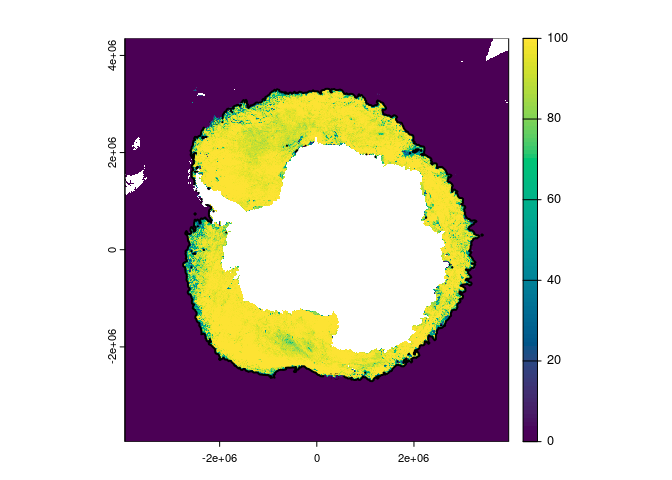
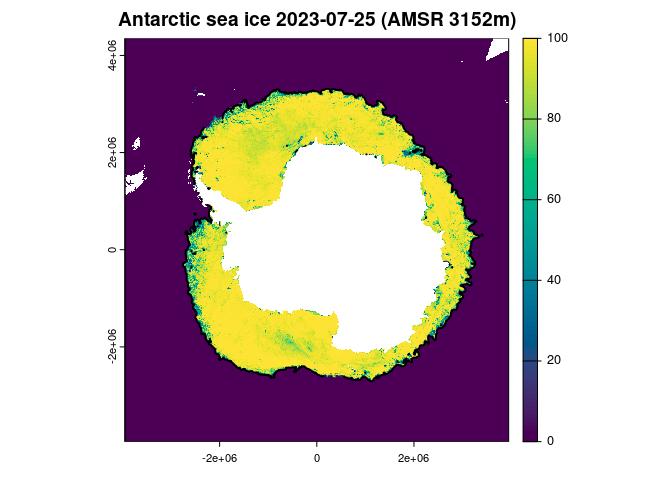
refreshing data

Changed region(s): [[0.1562, 0.0, 0.7812, 0.0625]]

diff --git a/README.md b/README.md
@@ -13,120 +13,10 @@ The goal of raadle.humm is to …
 This is a basic example which shows you how to solve a common problem:
 
 ``` r
-datadir <- normalizePath(file.path("~", "bower_dir"), mustWork = FALSE) #"/bower"
+## this was set in the data-raw/run.R job
+datadir <- normalizePath(file.path("~", "bower_dir"), mustWork = FALSE) 
 print(datadir)
 #> [1] "/home/runner/bower_dir"
-print(here::here("data-raw"))
-#> [1] "/home/runner/work/raadle.humm/raadle.humm/data-raw"
-fs::dir_ls(datadir, recurse = TRUE)
-#> /home/runner/bower_dir/seaice.uni-bremen.de
-#> /home/runner/bower_dir/seaice.uni-bremen.de/data
-#> /home/runner/bower_dir/seaice.uni-bremen.de/data/amsr2
-#> /home/runner/bower_dir/seaice.uni-bremen.de/data/amsr2/asi_daygrid_swath
-#> /home/runner/bower_dir/seaice.uni-bremen.de/data/amsr2/asi_daygrid_swath/s3125
-#> /home/runner/bower_dir/seaice.uni-bremen.de/data/amsr2/asi_daygrid_swath/s3125/2023
-#> /home/runner/bower_dir/seaice.uni-bremen.de/data/amsr2/asi_daygrid_swath/s3125/2023/jul
-#> /home/runner/bower_dir/seaice.uni-bremen.de/data/amsr2/asi_daygrid_swath/s3125/2023/jul/Antarctic3125
-#> /home/runner/bower_dir/seaice.uni-bremen.de/data/amsr2/asi_daygrid_swath/s3125/2023/jul/Antarctic3125/asi-AMSR2-s3125-20230701-v5.4.hdf
-#> /home/runner/bower_dir/seaice.uni-bremen.de/data/amsr2/asi_daygrid_swath/s3125/2023/jul/Antarctic3125/asi-AMSR2-s3125-20230701-v5.4.tif
-#> /home/runner/bower_dir/seaice.uni-bremen.de/data/amsr2/asi_daygrid_swath/s3125/2023/jul/Antarctic3125/asi-AMSR2-s3125-20230701-v5.hdf
-#> /home/runner/bower_dir/seaice.uni-bremen.de/data/amsr2/asi_daygrid_swath/s3125/2023/jul/Antarctic3125/asi-AMSR2-s3125-20230701-v5.tif
-#> /home/runner/bower_dir/seaice.uni-bremen.de/data/amsr2/asi_daygrid_swath/s3125/2023/jul/Antarctic3125/asi-AMSR2-s3125-20230702-v5.4.hdf
-#> /home/runner/bower_dir/seaice.uni-bremen.de/data/amsr2/asi_daygrid_swath/s3125/2023/jul/Antarctic3125/asi-AMSR2-s3125-20230702-v5.4.tif
-#> /home/runner/bower_dir/seaice.uni-bremen.de/data/amsr2/asi_daygrid_swath/s3125/2023/jul/Antarctic3125/asi-AMSR2-s3125-20230702-v5.hdf
-#> /home/runner/bower_dir/seaice.uni-bremen.de/data/amsr2/asi_daygrid_swath/s3125/2023/jul/Antarctic3125/asi-AMSR2-s3125-20230702-v5.tif
-#> /home/runner/bower_dir/seaice.uni-bremen.de/data/amsr2/asi_daygrid_swath/s3125/2023/jul/Antarctic3125/asi-AMSR2-s3125-20230703-v5.4.hdf
-#> /home/runner/bower_dir/seaice.uni-bremen.de/data/amsr2/asi_daygrid_swath/s3125/2023/jul/Antarctic3125/asi-AMSR2-s3125-20230703-v5.4.tif
-#> /home/runner/bower_dir/seaice.uni-bremen.de/data/amsr2/asi_daygrid_swath/s3125/2023/jul/Antarctic3125/asi-AMSR2-s3125-20230703-v5.hdf
-#> /home/runner/bower_dir/seaice.uni-bremen.de/data/amsr2/asi_daygrid_swath/s3125/2023/jul/Antarctic3125/asi-AMSR2-s3125-20230703-v5.tif
-#> /home/runner/bower_dir/seaice.uni-bremen.de/data/amsr2/asi_daygrid_swath/s3125/2023/jul/Antarctic3125/asi-AMSR2-s3125-20230704-v5.4.hdf
-#> /home/runner/bower_dir/seaice.uni-bremen.de/data/amsr2/asi_daygrid_swath/s3125/2023/jul/Antarctic3125/asi-AMSR2-s3125-20230704-v5.4.tif
-#> /home/runner/bower_dir/seaice.uni-bremen.de/data/amsr2/asi_daygrid_swath/s3125/2023/jul/Antarctic3125/asi-AMSR2-s3125-20230704-v5.hdf
-#> /home/runner/bower_dir/seaice.uni-bremen.de/data/amsr2/asi_daygrid_swath/s3125/2023/jul/Antarctic3125/asi-AMSR2-s3125-20230704-v5.tif
-#> /home/runner/bower_dir/seaice.uni-bremen.de/data/amsr2/asi_daygrid_swath/s3125/2023/jul/Antarctic3125/asi-AMSR2-s3125-20230705-v5.4.hdf
-#> /home/runner/bower_dir/seaice.uni-bremen.de/data/amsr2/asi_daygrid_swath/s3125/2023/jul/Antarctic3125/asi-AMSR2-s3125-20230705-v5.4.tif
-#> /home/runner/bower_dir/seaice.uni-bremen.de/data/amsr2/asi_daygrid_swath/s3125/2023/jul/Antarctic3125/asi-AMSR2-s3125-20230705-v5.hdf
-#> /home/runner/bower_dir/seaice.uni-bremen.de/data/amsr2/asi_daygrid_swath/s3125/2023/jul/Antarctic3125/asi-AMSR2-s3125-20230705-v5.tif
-#> /home/runner/bower_dir/seaice.uni-bremen.de/data/amsr2/asi_daygrid_swath/s3125/2023/jul/Antarctic3125/asi-AMSR2-s3125-20230706-v5.4.hdf
-#> /home/runner/bower_dir/seaice.uni-bremen.de/data/amsr2/asi_daygrid_swath/s3125/2023/jul/Antarctic3125/asi-AMSR2-s3125-20230706-v5.4.tif
-#> /home/runner/bower_dir/seaice.uni-bremen.de/data/amsr2/asi_daygrid_swath/s3125/2023/jul/Antarctic3125/asi-AMSR2-s3125-20230706-v5.hdf
-#> /home/runner/bower_dir/seaice.uni-bremen.de/data/amsr2/asi_daygrid_swath/s3125/2023/jul/Antarctic3125/asi-AMSR2-s3125-20230706-v5.tif
-#> /home/runner/bower_dir/seaice.uni-bremen.de/data/amsr2/asi_daygrid_swath/s3125/2023/jul/Antarctic3125/asi-AMSR2-s3125-20230707-v5.4.hdf
-#> /home/runner/bower_dir/seaice.uni-bremen.de/data/amsr2/asi_daygrid_swath/s3125/2023/jul/Antarctic3125/asi-AMSR2-s3125-20230707-v5.4.tif
-#> /home/runner/bower_dir/seaice.uni-bremen.de/data/amsr2/asi_daygrid_swath/s3125/2023/jul/Antarctic3125/asi-AMSR2-s3125-20230707-v5.hdf
-#> /home/runner/bower_dir/seaice.uni-bremen.de/data/amsr2/asi_daygrid_swath/s3125/2023/jul/Antarctic3125/asi-AMSR2-s3125-20230707-v5.tif
-#> /home/runner/bower_dir/seaice.uni-bremen.de/data/amsr2/asi_daygrid_swath/s3125/2023/jul/Antarctic3125/asi-AMSR2-s3125-20230708-v5.4.hdf
-#> /home/runner/bower_dir/seaice.uni-bremen.de/data/amsr2/asi_daygrid_swath/s3125/2023/jul/Antarctic3125/asi-AMSR2-s3125-20230708-v5.4.tif
-#> /home/runner/bower_dir/seaice.uni-bremen.de/data/amsr2/asi_daygrid_swath/s3125/2023/jul/Antarctic3125/asi-AMSR2-s3125-20230708-v5.hdf
-#> /home/runner/bower_dir/seaice.uni-bremen.de/data/amsr2/asi_daygrid_swath/s3125/2023/jul/Antarctic3125/asi-AMSR2-s3125-20230708-v5.tif
-#> /home/runner/bower_dir/seaice.uni-bremen.de/data/amsr2/asi_daygrid_swath/s3125/2023/jul/Antarctic3125/asi-AMSR2-s3125-20230709-v5.4.hdf
-#> /home/runner/bower_dir/seaice.uni-bremen.de/data/amsr2/asi_daygrid_swath/s3125/2023/jul/Antarctic3125/asi-AMSR2-s3125-20230709-v5.4.tif
-#> /home/runner/bower_dir/seaice.uni-bremen.de/data/amsr2/asi_daygrid_swath/s3125/2023/jul/Antarctic3125/asi-AMSR2-s3125-20230709-v5.hdf
-#> /home/runner/bower_dir/seaice.uni-bremen.de/data/amsr2/asi_daygrid_swath/s3125/2023/jul/Antarctic3125/asi-AMSR2-s3125-20230709-v5.tif
-#> /home/runner/bower_dir/seaice.uni-bremen.de/data/amsr2/asi_daygrid_swath/s3125/2023/jul/Antarctic3125/asi-AMSR2-s3125-20230710-v5.4.hdf
-#> /home/runner/bower_dir/seaice.uni-bremen.de/data/amsr2/asi_daygrid_swath/s3125/2023/jul/Antarctic3125/asi-AMSR2-s3125-20230710-v5.4.tif
-#> /home/runner/bower_dir/seaice.uni-bremen.de/data/amsr2/asi_daygrid_swath/s3125/2023/jul/Antarctic3125/asi-AMSR2-s3125-20230710-v5.hdf
-#> /home/runner/bower_dir/seaice.uni-bremen.de/data/amsr2/asi_daygrid_swath/s3125/2023/jul/Antarctic3125/asi-AMSR2-s3125-20230710-v5.tif
-#> /home/runner/bower_dir/seaice.uni-bremen.de/data/amsr2/asi_daygrid_swath/s3125/2023/jul/Antarctic3125/asi-AMSR2-s3125-20230711-v5.4.hdf
-#> /home/runner/bower_dir/seaice.uni-bremen.de/data/amsr2/asi_daygrid_swath/s3125/2023/jul/Antarctic3125/asi-AMSR2-s3125-20230711-v5.4.tif
-#> /home/runner/bower_dir/seaice.uni-bremen.de/data/amsr2/asi_daygrid_swath/s3125/2023/jul/Antarctic3125/asi-AMSR2-s3125-20230711-v5.hdf
-#> /home/runner/bower_dir/seaice.uni-bremen.de/data/amsr2/asi_daygrid_swath/s3125/2023/jul/Antarctic3125/asi-AMSR2-s3125-20230711-v5.tif
-#> /home/runner/bower_dir/seaice.uni-bremen.de/data/amsr2/asi_daygrid_swath/s3125/2023/jul/Antarctic3125/asi-AMSR2-s3125-20230712-v5.4.hdf
-#> /home/runner/bower_dir/seaice.uni-bremen.de/data/amsr2/asi_daygrid_swath/s3125/2023/jul/Antarctic3125/asi-AMSR2-s3125-20230712-v5.4.tif
-#> /home/runner/bower_dir/seaice.uni-bremen.de/data/amsr2/asi_daygrid_swath/s3125/2023/jul/Antarctic3125/asi-AMSR2-s3125-20230712-v5.hdf
-#> /home/runner/bower_dir/seaice.uni-bremen.de/data/amsr2/asi_daygrid_swath/s3125/2023/jul/Antarctic3125/asi-AMSR2-s3125-20230712-v5.tif
-#> /home/runner/bower_dir/seaice.uni-bremen.de/data/amsr2/asi_daygrid_swath/s3125/2023/jul/Antarctic3125/asi-AMSR2-s3125-20230713-v5.4.hdf
-#> /home/runner/bower_dir/seaice.uni-bremen.de/data/amsr2/asi_daygrid_swath/s3125/2023/jul/Antarctic3125/asi-AMSR2-s3125-20230713-v5.4.tif
-#> /home/runner/bower_dir/seaice.uni-bremen.de/data/amsr2/asi_daygrid_swath/s3125/2023/jul/Antarctic3125/asi-AMSR2-s3125-20230713-v5.hdf
-#> /home/runner/bower_dir/seaice.uni-bremen.de/data/amsr2/asi_daygrid_swath/s3125/2023/jul/Antarctic3125/asi-AMSR2-s3125-20230713-v5.tif
-#> /home/runner/bower_dir/seaice.uni-bremen.de/data/amsr2/asi_daygrid_swath/s3125/2023/jul/Antarctic3125/asi-AMSR2-s3125-20230714-v5.4.hdf
-#> /home/runner/bower_dir/seaice.uni-bremen.de/data/amsr2/asi_daygrid_swath/s3125/2023/jul/Antarctic3125/asi-AMSR2-s3125-20230714-v5.4.tif
-#> /home/runner/bower_dir/seaice.uni-bremen.de/data/amsr2/asi_daygrid_swath/s3125/2023/jul/Antarctic3125/asi-AMSR2-s3125-20230714-v5.hdf
-#> /home/runner/bower_dir/seaice.uni-bremen.de/data/amsr2/asi_daygrid_swath/s3125/2023/jul/Antarctic3125/asi-AMSR2-s3125-20230714-v5.tif
-#> /home/runner/bower_dir/seaice.uni-bremen.de/data/amsr2/asi_daygrid_swath/s3125/2023/jul/Antarctic3125/asi-AMSR2-s3125-20230715-v5.4.hdf
-#> /home/runner/bower_dir/seaice.uni-bremen.de/data/amsr2/asi_daygrid_swath/s3125/2023/jul/Antarctic3125/asi-AMSR2-s3125-20230715-v5.4.tif
-#> /home/runner/bower_dir/seaice.uni-bremen.de/data/amsr2/asi_daygrid_swath/s3125/2023/jul/Antarctic3125/asi-AMSR2-s3125-20230715-v5.hdf
-#> /home/runner/bower_dir/seaice.uni-bremen.de/data/amsr2/asi_daygrid_swath/s3125/2023/jul/Antarctic3125/asi-AMSR2-s3125-20230715-v5.tif
-#> /home/runner/bower_dir/seaice.uni-bremen.de/data/amsr2/asi_daygrid_swath/s3125/2023/jul/Antarctic3125/asi-AMSR2-s3125-20230716-v5.4.hdf
-#> /home/runner/bower_dir/seaice.uni-bremen.de/data/amsr2/asi_daygrid_swath/s3125/2023/jul/Antarctic3125/asi-AMSR2-s3125-20230716-v5.4.tif
-#> /home/runner/bower_dir/seaice.uni-bremen.de/data/amsr2/asi_daygrid_swath/s3125/2023/jul/Antarctic3125/asi-AMSR2-s3125-20230716-v5.hdf
-#> /home/runner/bower_dir/seaice.uni-bremen.de/data/amsr2/asi_daygrid_swath/s3125/2023/jul/Antarctic3125/asi-AMSR2-s3125-20230716-v5.tif
-#> /home/runner/bower_dir/seaice.uni-bremen.de/data/amsr2/asi_daygrid_swath/s3125/2023/jul/Antarctic3125/asi-AMSR2-s3125-20230717-v5.4.hdf
-#> /home/runner/bower_dir/seaice.uni-bremen.de/data/amsr2/asi_daygrid_swath/s3125/2023/jul/Antarctic3125/asi-AMSR2-s3125-20230717-v5.4.tif
-#> /home/runner/bower_dir/seaice.uni-bremen.de/data/amsr2/asi_daygrid_swath/s3125/2023/jul/Antarctic3125/asi-AMSR2-s3125-20230717-v5.hdf
-#> /home/runner/bower_dir/seaice.uni-bremen.de/data/amsr2/asi_daygrid_swath/s3125/2023/jul/Antarctic3125/asi-AMSR2-s3125-20230717-v5.tif
-#> /home/runner/bower_dir/seaice.uni-bremen.de/data/amsr2/asi_daygrid_swath/s3125/2023/jul/Antarctic3125/asi-AMSR2-s3125-20230718-v5.4.hdf
-#> /home/runner/bower_dir/seaice.uni-bremen.de/data/amsr2/asi_daygrid_swath/s3125/2023/jul/Antarctic3125/asi-AMSR2-s3125-20230718-v5.4.tif
-#> /home/runner/bower_dir/seaice.uni-bremen.de/data/amsr2/asi_daygrid_swath/s3125/2023/jul/Antarctic3125/asi-AMSR2-s3125-20230718-v5.hdf
-#> /home/runner/bower_dir/seaice.uni-bremen.de/data/amsr2/asi_daygrid_swath/s3125/2023/jul/Antarctic3125/asi-AMSR2-s3125-20230718-v5.tif
-#> /home/runner/bower_dir/seaice.uni-bremen.de/data/amsr2/asi_daygrid_swath/s3125/2023/jul/Antarctic3125/asi-AMSR2-s3125-20230719-v5.4.hdf
-#> /home/runner/bower_dir/seaice.uni-bremen.de/data/amsr2/asi_daygrid_swath/s3125/2023/jul/Antarctic3125/asi-AMSR2-s3125-20230719-v5.4.tif
-#> /home/runner/bower_dir/seaice.uni-bremen.de/data/amsr2/asi_daygrid_swath/s3125/2023/jul/Antarctic3125/asi-AMSR2-s3125-20230719-v5.hdf
-#> /home/runner/bower_dir/seaice.uni-bremen.de/data/amsr2/asi_daygrid_swath/s3125/2023/jul/Antarctic3125/asi-AMSR2-s3125-20230719-v5.tif
-#> /home/runner/bower_dir/seaice.uni-bremen.de/data/amsr2/asi_daygrid_swath/s3125/2023/jul/Antarctic3125/asi-AMSR2-s3125-20230720-v5.4.hdf
-#> /home/runner/bower_dir/seaice.uni-bremen.de/data/amsr2/asi_daygrid_swath/s3125/2023/jul/Antarctic3125/asi-AMSR2-s3125-20230720-v5.4.tif
-#> /home/runner/bower_dir/seaice.uni-bremen.de/data/amsr2/asi_daygrid_swath/s3125/2023/jul/Antarctic3125/asi-AMSR2-s3125-20230720-v5.hdf
-#> /home/runner/bower_dir/seaice.uni-bremen.de/data/amsr2/asi_daygrid_swath/s3125/2023/jul/Antarctic3125/asi-AMSR2-s3125-20230720-v5.tif
-#> /home/runner/bower_dir/seaice.uni-bremen.de/data/amsr2/asi_daygrid_swath/s3125/2023/jul/Antarctic3125/asi-AMSR2-s3125-20230721-v5.4.hdf
-#> /home/runner/bower_dir/seaice.uni-bremen.de/data/amsr2/asi_daygrid_swath/s3125/2023/jul/Antarctic3125/asi-AMSR2-s3125-20230721-v5.4.tif
-#> /home/runner/bower_dir/seaice.uni-bremen.de/data/amsr2/asi_daygrid_swath/s3125/2023/jul/Antarctic3125/asi-AMSR2-s3125-20230721-v5.hdf
-#> /home/runner/bower_dir/seaice.uni-bremen.de/data/amsr2/asi_daygrid_swath/s3125/2023/jul/Antarctic3125/asi-AMSR2-s3125-20230721-v5.tif
-#> /home/runner/bower_dir/seaice.uni-bremen.de/data/amsr2/asi_daygrid_swath/s3125/2023/jul/Antarctic3125/asi-AMSR2-s3125-20230722-v5.4.hdf
-#> /home/runner/bower_dir/seaice.uni-bremen.de/data/amsr2/asi_daygrid_swath/s3125/2023/jul/Antarctic3125/asi-AMSR2-s3125-20230722-v5.4.tif
-#> /home/runner/bower_dir/seaice.uni-bremen.de/data/amsr2/asi_daygrid_swath/s3125/2023/jul/Antarctic3125/asi-AMSR2-s3125-20230722-v5.hdf
-#> /home/runner/bower_dir/seaice.uni-bremen.de/data/amsr2/asi_daygrid_swath/s3125/2023/jul/Antarctic3125/asi-AMSR2-s3125-20230722-v5.tif
-#> /home/runner/bower_dir/seaice.uni-bremen.de/data/amsr2/asi_daygrid_swath/s3125/2023/jul/Antarctic3125/asi-AMSR2-s3125-20230723-v5.4.hdf
-#> /home/runner/bower_dir/seaice.uni-bremen.de/data/amsr2/asi_daygrid_swath/s3125/2023/jul/Antarctic3125/asi-AMSR2-s3125-20230723-v5.4.tif
-#> /home/runner/bower_dir/seaice.uni-bremen.de/data/amsr2/asi_daygrid_swath/s3125/2023/jul/Antarctic3125/asi-AMSR2-s3125-20230723-v5.hdf
-#> /home/runner/bower_dir/seaice.uni-bremen.de/data/amsr2/asi_daygrid_swath/s3125/2023/jul/Antarctic3125/asi-AMSR2-s3125-20230723-v5.tif
-#> /home/runner/bower_dir/seaice.uni-bremen.de/data/amsr2/asi_daygrid_swath/s3125/2023/jul/Antarctic3125/asi-AMSR2-s3125-20230724-v5.4.hdf
-#> /home/runner/bower_dir/seaice.uni-bremen.de/data/amsr2/asi_daygrid_swath/s3125/2023/jul/Antarctic3125/asi-AMSR2-s3125-20230724-v5.4.tif
-#> /home/runner/bower_dir/seaice.uni-bremen.de/data/amsr2/asi_daygrid_swath/s3125/2023/jul/Antarctic3125/asi-AMSR2-s3125-20230724-v5.hdf
-#> /home/runner/bower_dir/seaice.uni-bremen.de/data/amsr2/asi_daygrid_swath/s3125/2023/jul/Antarctic3125/asi-AMSR2-s3125-20230724-v5.tif
-#> /home/runner/bower_dir/seaice.uni-bremen.de/data/amsr2/asi_daygrid_swath/s3125/2023/jul/Antarctic3125/asi-AMSR2-s3125-20230725-v5.4.hdf
-#> /home/runner/bower_dir/seaice.uni-bremen.de/data/amsr2/asi_daygrid_swath/s3125/2023/jul/Antarctic3125/asi-AMSR2-s3125-20230725-v5.4.tif
-#> /home/runner/bower_dir/seaice.uni-bremen.de/data/amsr2/asi_daygrid_swath/s3125/2023/jul/Antarctic3125/asi-AMSR2-s3125-20230725-v5.hdf
-#> /home/runner/bower_dir/seaice.uni-bremen.de/data/amsr2/asi_daygrid_swath/s3125/2023/jul/Antarctic3125/asi-AMSR2-s3125-20230725-v5.tif
 ```
 
 These are weird files because they are fairly hopeless HDF4Image with no
@@ -157,9 +47,11 @@ files <- files |> filter(grepl(".*tif$", fullname))
 
 
 r <- rast(files$fullname[nrow(files)])
+date <- as.Date(strptime(stringr::str_extract(basename(files$fullname[nrow(files)]), "[0-9]{8}"), "%Y%m%d"))
 coltab(r) <- NULL
 r[r > 100] <- NA
 plot(r, col = hcl.colors(101))
+title(sprintf("Antarctic sea ice %s (AMSR 3152m)", format(date)))
 contour(r, level = 15, add = T, lwd = 2)
 ```
 
@@ -186,3 +78,14 @@ plot(abs(r - hdf))  ## see there is sub-integer information (do we care?)
 ```
 
 <img src="man/figures/README-hdf-2.png" width="100%" />
+
+It *seems* to be enough with terra to flip the Y part of the extent, and
+we don’t have to go through the warper?
+
+``` r
+vrt <- vapour::vapour_vrt(hdfiles$fullname[nrow(hdfiles)], extent = c(-3950000, 3950000, -3950000, 4350000)[c(1, 2, 4, 3)], crs = "EPSG:3976")
+plot(rast(vrt), col = c("black", colorRampPalette(c("white", "grey", "aliceblue",  "dodgerblue"))(99)))
+contour(r, level = 15, add = TRUE, col = "green", lwd = 3)
+```
+
+<img src="man/figures/README-flip-1.png" width="100%" />
